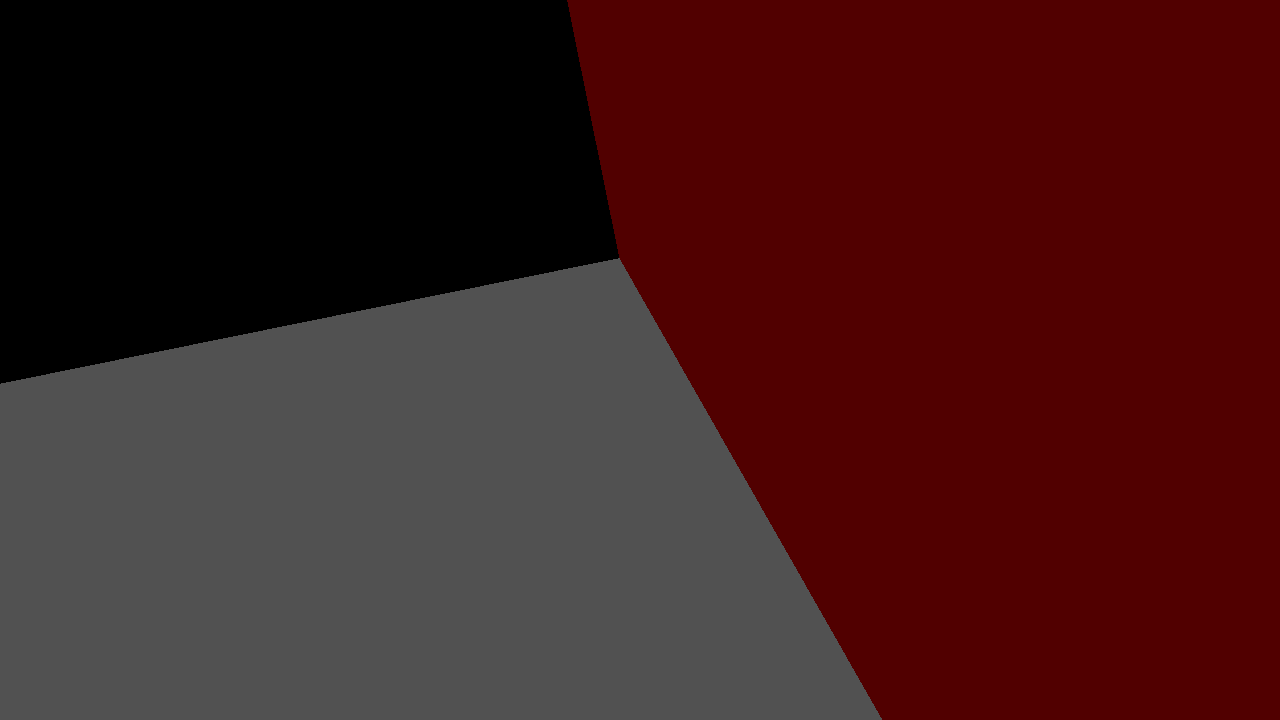
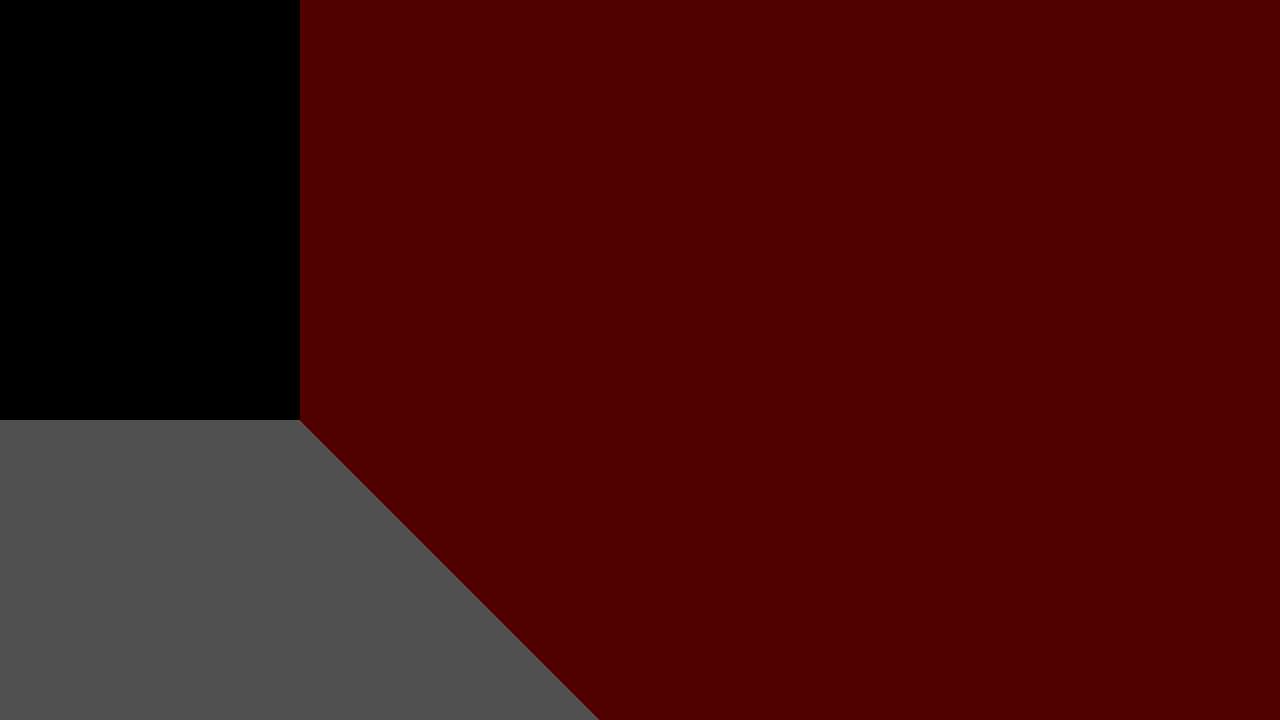
added a poor mans GUI

Changed region(s): [[0.0, 0.0, 0.6875, 1.0]]

diff --git a/rt/src/rt/renderers/Renderer.java b/rt/src/rt/renderers/Renderer.java
@@ -6,6 +6,9 @@ import java.io.IOException;
 import java.util.concurrent.ExecutionException;
 
 import javax.imageio.ImageIO;
+import javax.swing.ImageIcon;
+import javax.swing.JFrame;
+import javax.swing.JLabel;
 
 import rt.Scene;
 import rt.util.Timer;
@@ -14,7 +17,16 @@ public abstract class Renderer {
 
 	protected final Scene scene;
 
+	protected BufferedImage image;
+	protected JFrame jf;
+	protected JLabel label;
+	
 	public Renderer(Scene scene) {
+		jf = new JFrame("Raytracer");
+		label = new JLabel();
+		jf.setSize(scene.getFilm().getWidth(),scene.getFilm().getHeight());
+		jf.setLocationRelativeTo(null);
+	    jf.setDefaultCloseOperation(JFrame.EXIT_ON_CLOSE); 
 		this.scene = scene;
 	}
 		
@@ -30,8 +42,23 @@ public abstract class Renderer {
 		// The call to the renderer implementation. Here is where real work gets done.
 		renderInternally();
 		
+		//output image to screen for convenience
+		updateFrame();
+		
 		System.out.println();
 		timer.printElapsedTimeToConsole("Image computed in");
+	}
+	
+	/**
+	 * Updates the shown frame
+	 */
+	protected void updateFrame(){
+		image = scene.getTonemapper().process(scene.getFilm());
+		jf.remove(label);
+		label =  new JLabel(new ImageIcon(image));    
+		jf.add(label);
+		jf.repaint();
+	    jf.setVisible(true);
 	}
 	
 	/**

diff --git a/rt/src/rt/renderers/MultiThreadedRenderer.java b/rt/src/rt/renderers/MultiThreadedRenderer.java
@@ -1,10 +1,15 @@
 package rt.renderers;
 
+import java.awt.image.BufferedImage;
 import java.util.ArrayList;
 import java.util.concurrent.ExecutionException;
 import java.util.concurrent.ExecutorService;
 import java.util.concurrent.Executors;
 import java.util.concurrent.Future;
+
+import javax.swing.ImageIcon;
+import javax.swing.JFrame;
+import javax.swing.JLabel;
 
 import rt.Scene;
 import rt.util.ProgressBar;
@@ -46,12 +51,22 @@ public class MultiThreadedRenderer extends Renderer {
 			}
 		}
 		ProgressBar progressBar = new ProgressBar(nTasks);
+		
 		// Wait for threads to end.
 		executor.shutdown();
+		long startTime = System.currentTimeMillis();
+
 		for (Future<?> f: futures) {
 			f.get();
 			progressBar.increment();
+			
+			//update intermediate results every 1 second
+			if(System.currentTimeMillis() - startTime>1000){
+				updateFrame();
+			    startTime = System.currentTimeMillis();
+			}
 		}
+		
 	}
 	
 	protected String rendererMessage() {

diff --git a/rt/src/rt/testscenes/CameraTestScene.java b/rt/src/rt/testscenes/CameraTestScene.java
@@ -36,14 +36,15 @@ public class CameraTestScene extends Scene {
 		Vector3f up = new Vector3f(0.2f, 1.f, 0.f);
 		float fov = 60.f;
 		float aspect = 16.f/9.f;
-		//camera = new FixedCamera(600, 600);
-		camera = new PinholeCamera(eye, lookAt, up, fov, aspect, width, height);
+		camera = new FixedCamera(600, 600);
+		//camera = new PinholeCamera(eye, lookAt, up, fov, aspect, width, height);
 		film = new BoxFilterFilm(width, height);
 		tonemapper = new ClampTonemapper();
 		
 		// Specify which integrator and sampler to use
 		integratorFactory = new TrivialIntegratorFactory();
 		samplerFactory = new OneSamplerFactory();
+	//	samplerFactory = new RandomSamplerFactory();	
 		
 		// Define some objects to be added to the scene. 
 		// 5 planes can be used to define a box (with never ending walls).

diff --git a/rt/src/rt/Main.java b/rt/src/rt/Main.java
@@ -18,7 +18,8 @@ public class Main {
 	{			
 		scene.prepare();
 		// There are multiple renderer implementations, check out the package 'rt.renderers'.
-		Renderer renderer = new SingleThreadedRenderer(scene);
+		//Renderer renderer = new SingleThreadedRenderer(scene);
+		Renderer renderer = new MultiThreadedRenderer(scene);
 		renderer.render();
 		renderer.writeImageToFile();
 	}
